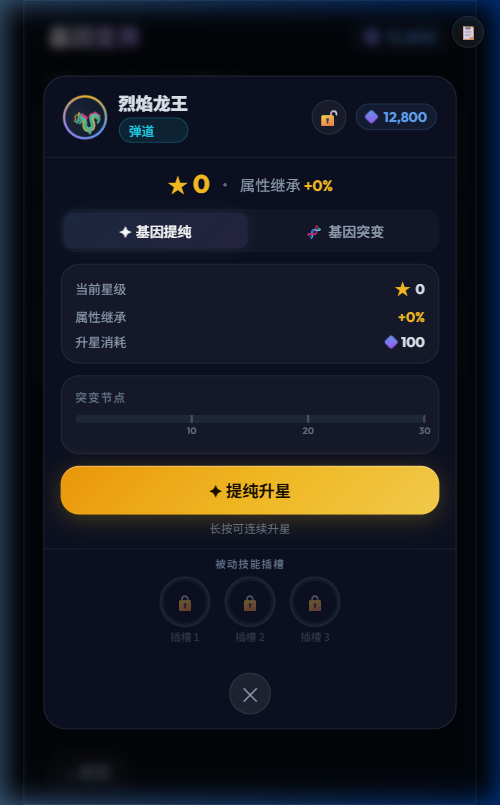
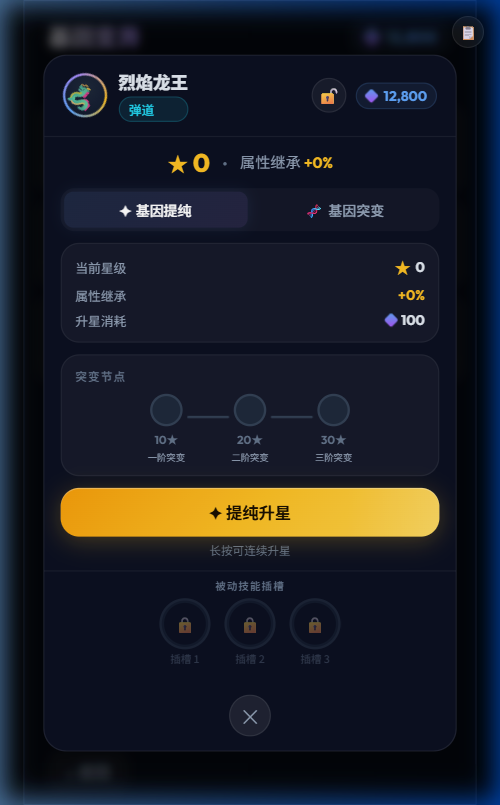
revert: keep progress bar, only update text for unlimited stars

diff --git a/g04_mutation/ui/index.html b/g04_mutation/ui/index.html
@@ -109,7 +109,7 @@ footer a{color:#60a5fa;text-decoration:none}
       <div class="anno" data-i="6"><div class="an g">6</div><div class="at"><b>当前星级</b><span><code>pet.star</code>，<b>无上限</b>（突变节点在10/20/30，但升星可无限继续）</span></div></div>
       <div class="anno" data-i="7"><div class="an r">7</div><div class="at"><b>属性继承%</b><span>公式：<code>pet.star × 5</code>%，如10★=+50%</span></div></div>
       <div class="anno" data-i="8"><div class="an b">8</div><div class="at"><b>升星消耗</b><span>碎片消耗公式：<code>100 + pet.star × 20</code>。0★→1★=100，10★→11★=300</span></div></div>
-      <div class="anno" data-i="9"><div class="an p">9</div><div class="at"><b>突变节点里程碑</b><span>3个离散检查点圆圈：10★/20★/30★。达到时圆圈变金色+✓显示。<b>不是进度条</b>，因为星级无上限</span></div></div>
+      <div class="anno" data-i="9"><div class="an p">9</div><div class="at"><b>突变节点进度条</b><span>填充宽度 = <code>Math.min(pet.star/30, 1) × 100%</code>。颜色渐变蓝→紫→金。标记位10/20/30，达到时变金色。<b>进度条满格=30★，但星级可继续升</b></span></div></div>
       <div class="anno" data-i="10"><div class="an n">10</div><div class="at"><b>提纯升星按钮</b><span>点击 → 扣碎片+<code>pet.star++</code>。碎片不足时禁用+抖动。<b>长按连续升星</b>：400ms延迟后每80ms触发</span></div></div>
       <div class="anno" data-i="11"><div class="an c">11</div><div class="at"><b>被动技能插槽 ×3</b><span>初始全🔒。解锁条件：一/二/三阶突变。已解锁显示「＋」可点击，已镶嵌显示emoji+技能名，点击可更换</span></div></div>
       <div class="anno" data-i="12"><div class="an r">12</div><div class="at"><b>关闭按钮 ✕</b><span>关闭弹窗回选择页。也可点击弹窗外遮罩关闭</span></div></div>
@@ -151,7 +151,7 @@ footer a{color:#60a5fa;text-decoration:none}
     <div class="annotations-side">
       <div class="anno" data-i="1"><div class="an n">1</div><div class="at"><b>里程碑Toast</b><span><code>pet.star</code> 命中10/20/30时触发：「🎉 已达到 N★ 突变节点！」绿色庆祝提示</span></div></div>
       <div class="anno" data-i="2"><div class="an g">2</div><div class="at"><b>★10 + 属性继承+50%</b><span>header和数据卡片同步更新。继承公式：<code>star × 5</code>%</span></div></div>
-      <div class="anno" data-i="3"><div class="an p">3</div><div class="at"><b>里程碑节点亮起</b><span>10★节点圆圈变金色+✓。逻辑：<code>star >= 10</code> → class <code>.reached</code>。连接线同步变金色</span></div></div>
+      <div class="anno" data-i="3"><div class="an p">3</div><div class="at"><b>进度条到达"10"标记</b><span>填充33.3%。"10"字变金色。逻辑：<code>star >= milestone</code> → class <code>.reached</code></span></div></div>
       <div class="anno" data-i="4"><div class="an b">4</div><div class="at"><b>碎片实时扣减</b><span>10次升星消耗：<code>Σ(100+n×20)</code> n=0~9 = 1900碎片。12800→10900</span></div></div>
     </div>
     <svg class="leader-svg"></svg>

diff --git a/g04_mutation/index.css b/g04_mutation/index.css
@@ -283,36 +283,33 @@ button{font-family:inherit;cursor:pointer;border:none;background:none;color:inhe
 }
 .milestone-title{font-size:10px;font-weight:600;color:var(--c-text-m);text-transform:uppercase;letter-spacing:1px;margin-bottom:8px}
 
-/* 里程碑节点（三个离散检查点，星级无上限） */
-.milestone-nodes{
-  display:flex;align-items:center;justify-content:center;gap:0;
+/* 彩色进度条 */
+.progress-bar-wrap{position:relative;padding-bottom:16px}
+.progress-bar-bg{
+  width:100%;height:7px;border-radius:4px;
+  background:#1e293b;overflow:hidden;
 }
-.ms-node{display:flex;flex-direction:column;align-items:center;gap:3px;flex-shrink:0}
-.ms-node-circle{
-  width:28px;height:28px;border-radius:50%;
-  background:#1e293b;border:2px solid #334155;
-  display:flex;align-items:center;justify-content:center;
-  transition:all var(--mid) var(--ease);
+.progress-bar-fill{
+  height:100%;border-radius:4px;width:0%;
+  background:linear-gradient(90deg,var(--c-blue),var(--c-purple),var(--c-gold));
+  box-shadow:0 0 10px rgba(96,165,250,.3);
+  transition:width var(--mid) var(--ease);
 }
-.ms-check{font-size:12px;font-weight:900;color:transparent;transition:color var(--mid)}
-.ms-node-label{font-size:10px;font-weight:700;color:var(--c-text-m);font-family:'Outfit',sans-serif}
-.ms-node-desc{font-size:8px;color:var(--c-text-dim)}
-
-/* 已达到 */
-.ms-node.reached .ms-node-circle{
-  border-color:var(--c-gold);background:linear-gradient(135deg,rgba(251,191,36,.15),rgba(245,158,11,.25));
-  box-shadow:0 0 10px rgba(251,191,36,.25);
+.progress-markers{position:absolute;top:0;left:0;right:0;height:7px}
+.pm{
+  position:absolute;top:0;display:flex;flex-direction:column;align-items:center;
+  transform:translateX(-50%);
 }
-.ms-node.reached .ms-check{color:var(--c-gold)}
-.ms-node.reached .ms-node-label{color:var(--c-gold)}
-.ms-node.reached .ms-node-desc{color:var(--c-gold);opacity:.7}
-
-/* 连接线 */
-.ms-connector{
-  width:36px;height:2px;background:#334155;margin:0 2px;margin-bottom:20px;
-  border-radius:1px;position:relative;
+.pm::before{
+  content:'';display:block;width:2px;height:7px;
+  background:rgba(255,255,255,.2);
 }
-.ms-connector.reached{background:linear-gradient(90deg,var(--c-gold),rgba(251,191,36,.4))}
+.pm span{
+  margin-top:2px;font-size:8px;font-weight:700;color:var(--c-text-m);
+  font-family:'Outfit',sans-serif;
+}
+.pm.reached span{color:var(--c-gold)}
+.pm.reached::before{background:var(--c-gold)}
 
 /* 升星按钮 */
 #purify-action{margin-top:10px;display:flex;flex-direction:column;align-items:center;gap:4px}

diff --git a/g04_mutation/index.html b/g04_mutation/index.html
@@ -98,26 +98,17 @@
               </div>
             </div>
 
-            <!-- 突变节点里程碑 -->
+            <!-- 突变节点进度 -->
             <div id="mutation-milestone">
               <div class="milestone-title">突变节点</div>
-              <div class="milestone-nodes">
-                <div class="ms-node" id="pm-1">
-                  <div class="ms-node-circle"><span class="ms-check">✓</span></div>
-                  <div class="ms-node-label">10★</div>
-                  <div class="ms-node-desc">一阶突变</div>
+              <div class="progress-bar-wrap">
+                <div class="progress-bar-bg">
+                  <div class="progress-bar-fill" id="purify-progress-fill"></div>
                 </div>
-                <div class="ms-connector" id="mc-1"></div>
-                <div class="ms-node" id="pm-2">
-                  <div class="ms-node-circle"><span class="ms-check">✓</span></div>
-                  <div class="ms-node-label">20★</div>
-                  <div class="ms-node-desc">二阶突变</div>
-                </div>
-                <div class="ms-connector" id="mc-2"></div>
-                <div class="ms-node" id="pm-3">
-                  <div class="ms-node-circle"><span class="ms-check">✓</span></div>
-                  <div class="ms-node-label">30★</div>
-                  <div class="ms-node-desc">三阶突变</div>
+                <div class="progress-markers">
+                  <div class="pm" id="pm-1" style="left:33.33%"><span>10</span></div>
+                  <div class="pm" id="pm-2" style="left:66.66%"><span>20</span></div>
+                  <div class="pm" id="pm-3" style="left:100%"><span>30</span></div>
                 </div>
               </div>
             </div>

diff --git a/g04_mutation/main.js b/g04_mutation/main.js
@@ -240,12 +240,12 @@ function renderDetail() {
   const btn = document.getElementById('btn-purify');
   btn.disabled = player.geneFragments < getPurifyCost(p.star);
 
-  // 里程碑节点（星级无上限，只标记是否到达节点）
+  // 进度条（进度条满格=30★，但星级无上限可继续升）
+  const fillPct = Math.min(p.star / 30 * 100, 100);
+  document.getElementById('purify-progress-fill').style.width = fillPct + '%';
   document.getElementById('pm-1').classList.toggle('reached', p.star >= 10);
   document.getElementById('pm-2').classList.toggle('reached', p.star >= 20);
   document.getElementById('pm-3').classList.toggle('reached', p.star >= 30);
-  document.getElementById('mc-1').classList.toggle('reached', p.star >= 10);
-  document.getElementById('mc-2').classList.toggle('reached', p.star >= 20);
 
   // 突变面板
   renderMutationSingle();
